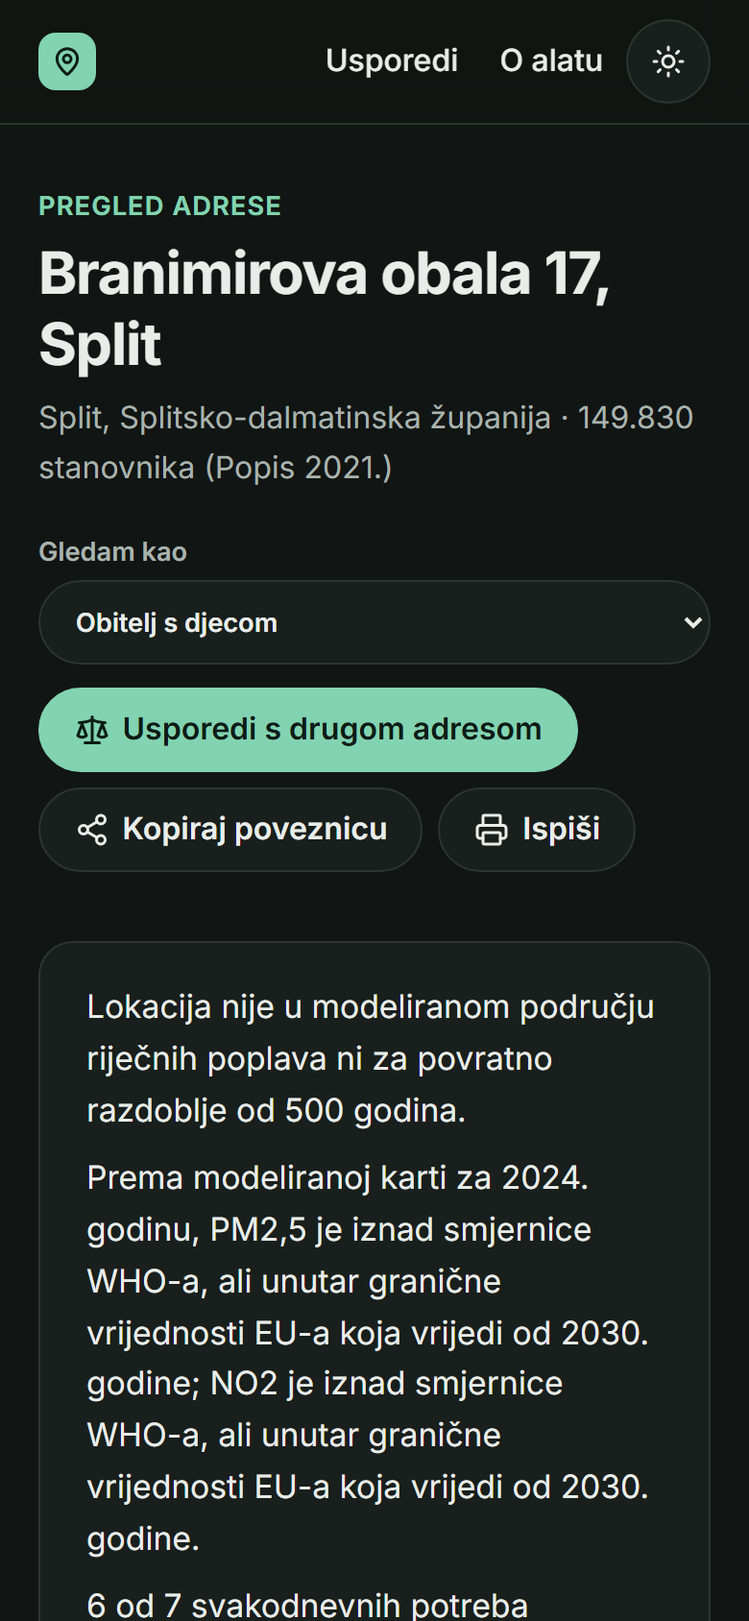
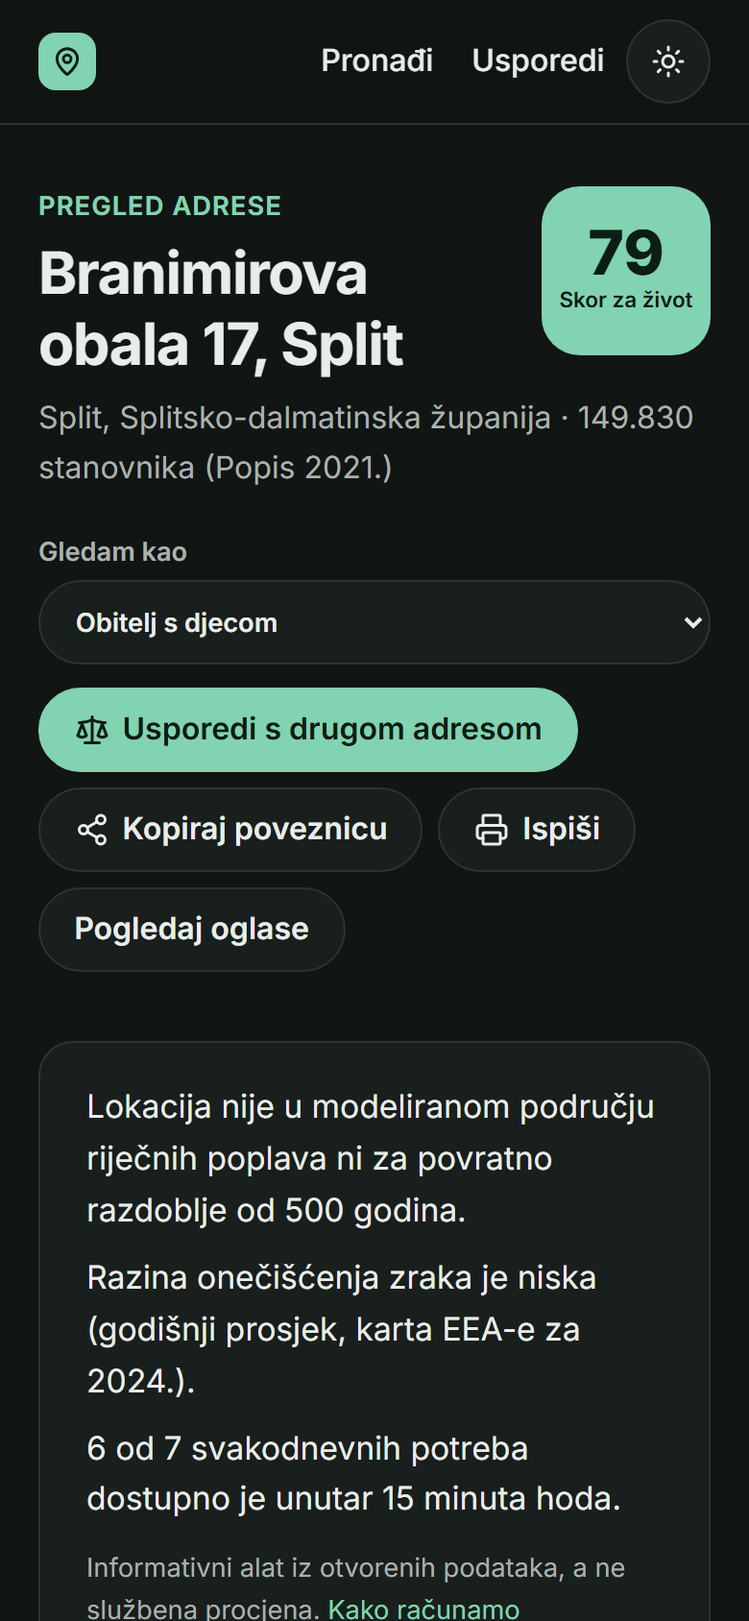
docs: align README, architecture, sources, video script with P3 features

diff --git a/backend/ingest/settlement_profiles.py b/backend/ingest/settlement_profiles.py
@@ -17,6 +17,7 @@ import time
 from concurrent.futures import ThreadPoolExecutor
 from typing import Any
 
+import httpx
 import pandas as pd
 import pyarrow as pa
 import pyarrow.parquet as pq
@@ -31,6 +32,7 @@ from analysis.environment import (
     noise_category,
 )
 from analysis.walking import compute_reach
+from app.config import get_settings
 from app.layers import get_layers
 from app.models import Category
 from ingest.common import processed_dir, record_source
@@ -86,6 +88,13 @@ def profile(row: dict[str, Any]) -> dict[str, Any]:
 
 
 def run(workers: int = 4) -> None:
+    try:
+        httpx.get(f"{get_settings().valhalla_url}/status", timeout=5).raise_for_status()
+    except httpx.HTTPError as exc:
+        raise RuntimeError(
+            "Valhalla ne radi: pokrenite je (docker compose -f deploy/docker-compose.dev.yml "
+            "up -d) pa ponovite `uv run python -m ingest.settlement_profiles`."
+        ) from exc
     d = processed_dir()
     settlements = pd.read_parquet(d / "settlements.parquet")
     population = pd.read_parquet(d / "settlement_population.parquet")

diff --git a/README.md b/README.md
@@ -1,6 +1,6 @@
 # Dobro mjesto
 
-**Okolišni pregled kuće ili stana prije kupnje: poplave, zrak, toplina i zelenilo, buka, sunce na krovu i život bez auta, za bilo koju adresu u Hrvatskoj, iz otvorenih podataka.**
+**Okoliš i svakodnevni život za svaku adresu u Hrvatskoj: poplave, zrak, zelenilo, promet, požari i sunce, sve što vam treba na dohvat ruke, i prijedlog mjesta za život, iz otvorenih podataka.**
 
 Datathon Portala otvorenih podataka 2026 · Izazov B: Okoliš i održivi prostor
 Tim: TODO(tim) · Mentor: TODO(tim) · Visoko učilište: TODO(tim)
@@ -13,34 +13,46 @@ Tim: TODO(tim) · Mentor: TODO(tim) · Visoko učilište: TODO(tim)
 
 ## Problem
 
-Kupnja kuće ili stana najveća je financijska odluka većine ljudi. Pri odabiru se gleda cijena, kvadratura i lokacija. Okolišne rizike i ovisnost o autu ljudi najčešće otkriju tek kad usele: da je kuća u poplavnom području, da je zrak lošiji nego što su mislili, da nema hlada ni zelenila, da se do vrtića i trgovine ne može bez auta.
+Gdje živjeti najveća je odluka većine ljudi, bilo da kupuju, unajmljuju ili tek razmišljaju o selidbi. Pri odabiru se gleda cijena, kvadratura i lokacija. Okolišne rizike i ovisnost o autu ljudi najčešće otkriju tek kad usele: da je kuća u poplavnom području, da je zrak lošiji nego što su mislili, da nema hlada ni zelenila, da se do vrtića i trgovine ne može bez auta.
 
-Ti podaci postoje, ali su rasuti po različitim institucijama i formatima: karte poplava, karte kvalitete zraka, satelitski pokrov tla, registri vrtića i ordinacija, vozni redovi. Prosječnom kupcu nisu ni razumljivi ni usporedivi.
+Ti podaci postoje, ali su rasuti po različitim institucijama i formatima: karte poplava, karte kvalitete zraka, satelitski pokrov tla, registri vrtića i ordinacija, vozni redovi. Prosječnom čovjeku nisu ni razumljivi ni usporedivi.
 
 ## Rješenje
 
-Korisnik upiše adresu i, po želji, odabere tko je: obitelj s djecom, umirovljenik, student, netko tko radi od kuće ili vlastiti izbor. Dobiva pregled u tri dijela:
+Naslovnica ima tri ulaza:
+
+1. **Provjeri adresu:** kako je živjeti na određenoj adresi.
+2. **Pronađi mjesto za život:** aplikacija predlaže naselja prema onome što vam treba.
+3. **Usporedi dvije lokacije:** dvije adrese jedna uz drugu.
+
+Izvještaj za adresu ima tri dijela:
 
 1. **Okolišni pregled** (prvi ekran):
-   - **poplave:** nalazi li se lokacija ili njezina okolica od 100 m u modeliranom poplavnom području za povratna razdoblja od 10, 100 i 500 godina, s poveznicom na službene karte Hrvatskih voda;
-   - **zrak:** godišnje koncentracije PM2,5 i NO2 za 2024. uspoređene sa smjernicama Svjetske zdravstvene organizacije i graničnim vrijednostima EU-a za 2030.;
-   - **toplina i zelenilo:** udio drveća, zelenih i izgrađenih površina u krugu od 300 m te najbliži park u minutama hoda, prema pravilu 3-30-300;
-   - **buka:** procjena prema udaljenosti od autocesta, glavnih i važnijih cesta te pruga, jasno označena kao procjena, uz poveznicu na strateške karte buke EEA-e;
+   - **poplave:** je li lokacija ili njezina okolica od 100 m u modeliranom poplavnom području za povratna razdoblja od 10, 100 i 500 godina, razumljivo izraženo kao vjerojatnost barem jedne poplave u 30 godina (trajanje stambenog kredita), s poveznicom na službene karte Hrvatskih voda;
+   - **zrak:** godišnji PM2,5 i NO2 na mirnoj, stupnjevanoj ljestvici (vrlo niska, niska, umjerena, visoka) s granicama Svjetske zdravstvene organizacije i EU-a;
+   - **toplina i zelenilo:** udio drveća, zelenih i izgrađenih površina u krugu od 300 m i najbliži park, prema pravilu 3-30-300;
+   - **promet u blizini:** udaljenost od autocesta, glavnih i važnijih cesta i pruga s opisnim rečenicama i pojasevima 300/500 m (procjena, ne mjerenje buke);
    - **požari raslinja:** opožarene površine u krugu od 2 km od 2016. (Copernicus EFFIS);
-   - **sunce na krovu:** procijenjena godišnja proizvodnja solarne elektrane po kilovatu snage (JRC PVGIS).
+   - **sunce na krovu:** procijenjena godišnja proizvodnja solarne elektrane po kilovatu (JRC PVGIS).
 2. **Život bez auta:**
-   - što je na 5, 10 i 15 minuta hoda po stvarnoj mreži ulica (karta s izokronama i isti popis u tekstu);
-   - stajališta javnog prijevoza s brojem polazaka na sat iz voznih redova ZET-a, HŽPP-a i Autotroleja;
+   - što je na 5, 10 i 15 minuta hoda po stvarnoj mreži ulica;
+   - stajališta s brojem polazaka na sat iz voznih redova ZET-a, HŽPP-a i Autotroleja;
    - koliko od sedam svakodnevnih potreba lokacija pokriva bez auta.
-3. **Svakodnevni život:** najbliži vrtić, osnovna škola, obiteljski liječnik, pedijatar, ljekarna, trgovina namirnicama, igralište i mjesto za reciklažu, s minutama hoda i brojem unutar 15 minuta.
+3. **Svakodnevni život:** najbliži vrtić, škola, liječnik, pedijatar, ljekarna, trgovina, igralište i mjesto za reciklažu, s minutama hoda.
 
-Dvije adrese mogu se usporediti jedna uz drugu. Pregled se može ispisati, podijeliti poveznicom ili preuzeti kao GeoJSON. Asistent odgovara na pitanja poput „Je li ova kuća u poplavnom području?” ili „Mogu li ovdje živjeti bez auta?”.
+**Skor za život** (0–100) sažima sve kategorije s težinama odabranog profila (obitelj s djecom, umirovljenik, student, rad od kuće ili vlastiti). Težine su vidljive i podesive, a uz skor piše što ga najviše podiže i spušta.
 
-Svaka brojka ima izvor, datum preuzimanja i vrstu (izmjereno, modelirano ili procjena). Brojke računa backend iz podataka, a ne jezični model. Rješenje ne daje jednu skupnu ocjenu sa skrivenim težinama: svaka kategorija ima vlastito, razumljivo značenje. Odabrani profil mijenja samo redoslijed i naglasak, nikad činjenice.
+**Ostalo:**
+- Točka se može odabrati i klikom na kartu ili povlačenjem oznake.
+- Za upisano naselje prikazuje se njegovo stvarno središte, uz napomenu da za točan izvještaj treba upisati adresu.
+- Gumb „Pogledaj oglase” otvara pretragu oglasa za to mjesto. Aplikacija samo slaže poveznicu i ne prikazuje oglase.
+- Asistent odgovara na pitanja poput „Je li ova kuća u poplavnom području?”.
+
+Svaka brojka ima izvor, datum i vrstu (izmjereno, modelirano ili procjena). Brojke računa backend iz podataka, a ne jezični model.
 
 ## Primjer
 
-Usporedba dviju adresa javnih ustanova u Vukovarsko-srijemskoj županiji. Izračunato 3. 11. 2026. iz podataka preuzetih 1.–2. 11. 2026.:
+Usporedba dviju adresa javnih ustanova u Vukovarsko-srijemskoj županiji. Izračunato 4. 11. 2026. iz podataka preuzetih 1.–4. 11. 2026.:
 - kvaliteta zraka: EEA karta za 2024.;
 - pokrov tla: ESA WorldCover 2021.;
 - poplave: JRC v3.1.1;
@@ -50,32 +62,36 @@ Usporedba dviju adresa javnih ustanova u Vukovarsko-srijemskoj županiji. Izrač
 |---|---|---|
 | Naselje | Vinkovci, 28.111 stanovnika (Popis 2021.) | Nijemci, 1.330 stanovnika (Popis 2021.) |
 | Poplave | **Dobro:** izvan modeliranih područja za 10, 100 i 500 godina, i u krugu od 100 m | **Dobro:** isto |
-| Zrak (godišnji prosjek 2024.) | **Loše:** PM2,5 18,2 µg/m³ (WHO 5, EU 2030. 10), NO2 17,5 µg/m³ | **Loše:** PM2,5 18,6 µg/m³, NO2 16,5 µg/m³ |
+| Zrak (godišnji prosjek 2024.) | **Umjerena** razina: PM2,5 18,2 µg/m³ (unutar današnje granice EU-a od 25, iznad granice za 2030. od 10), NO2 17,5 µg/m³ (niska) | **Umjerena**: PM2,5 18,6 µg/m³, NO2 16,5 µg/m³ |
 | Toplina i zelenilo (300 m) | **Upozorenje:** drveće 7 %, izgrađeno 90 %; park 2 min hoda | **Loše:** drveće 20 %; najbliži park udaljen 6,1 km |
-| Buka (procjena) | važnija cesta 10 m, pruga 1,4 km | važnija cesta 20 m |
+| Promet u blizini | **Blizu prometnice:** važnija cesta 10 m; pruga 1,4 km | **Blizu prometnice:** važnija cesta 20 m |
 | Sunce na krovu | oko 1.251 kWh po kWp godišnje, nagib 37° | oko 1.245 kWh po kWp godišnje, nagib 36° |
 | Život bez auta | 6 od 7 potreba unutar 15 min; stajalište s polascima nije provjereno (nema otvorenog voznog reda) | 5 od 7; nedostaje park; stajalište nije provjereno |
 | Najbliži vrtić / škola / liječnik | 3 / 4 / 5 min hoda | 12 / 3 / 4 min hoda |
-| Pedijatar | 19 min hoda | nije pronađen u krugu od 15 km |
+| Skor za život (profil „Općenito”) | 67 | 60 |
 
-Isti izračun dobiva se pozivom `GET /api/report?lat=45.288186&lon=18.805681` (Vinkovci) i `GET /api/report?lat=45.140273&lon=19.034942` (Nijemci). Svih šest demo adresa (Vinkovci, Osijek, Zagreb, Split, Nijemci) nalazi se u [scripts/demo_addresses.json](scripts/demo_addresses.json), a njihovi rezultati provjeravaju se zlatnim testovima.
+Isti izračun dobiva se pozivom `GET /api/report?lat=45.288186&lon=18.805681` (Vinkovci) i `GET /api/report?lat=45.140273&lon=19.034942` (Nijemci). Svih šest demo adresa nalazi se u [scripts/demo_addresses.json](scripts/demo_addresses.json), a njihovi rezultati provjeravaju se zlatnim testovima.
 
 ![Usporedba dviju adresa](docs/images/usporedba.png)
 
 ## Za koga
 
-- **Kupci i najmoprimci** koji biraju između više lokacija.
-- **Obitelji s djecom i starije osobe**, kojima su blizina vrtića, škole, liječnika i ljekarne te javni prijevoz važni koliko i sama kuća.
-- **Oglasnici nekretnina, agencije i banke**, koji pregled mogu ugraditi preko otvorenog API-ja.
+- **Svi koji biraju gdje živjeti:** kupci, najmoprimci i oni koji razmišljaju o selidbi.
+- **Obitelji s djecom i starije osobe**, kojima su vrtić, škola, liječnik, ljekarna i javni prijevoz važni koliko i sama kuća.
+- **Gradovi, agencije, banke i oglasnici**, koji pregled mogu ugraditi preko otvorenog API-ja.
 
 ## Funkcionalnosti
 
-- pretraga adrese s prijedlozima nad 1,7 milijuna adresa Državne geodetske uprave (bez vanjskog geokodera)
-- okolišni pregled: poplave, zrak, toplina i zelenilo, buka, požari raslinja, sunčev potencijal
+- pretraga adrese s prijedlozima nad 1,7 milijuna adresa Državne geodetske uprave (bez vanjskog geokodera); naselje se prikazuje u svojem stvarnom središtu
+- odabir točke klikom na kartu ili povlačenjem oznake
+- **Pronađi mjesto za život:** 2.347 naselja s najmanje 200 stanovnika rangirano prema filtrima i Skoru za život, s razlozima
+- **Skor za život** s vidljivim i podesivim težinama po profilu
+- poveznice na pretrage oglasa (Njuškalo, Index Oglasi, Nekretnine.hr); aplikacija ne dohvaća ni ne prikazuje oglase
+- okolišni pregled: poplave (i vjerojatnost u 30 godina), zrak na stupnjevanoj ljestvici, toplina i zelenilo, promet u blizini, požari raslinja, sunčev potencijal
 - izokrone hoda od 5, 10 i 15 minuta po mreži ulica i pješačkih staza
 - svakodnevne potrebe i javni prijevoz s minutama hoda
 - profili korisnika koji mijenjaju redoslijed i naglasak
-- usporedba dviju adresa
+- usporedba dviju lokacija
 - asistent na hrvatskom koji odgovara samo iz rezultata izračuna (s jezičnim modelom ili bez njega)
 - ispis, dijeljenje poveznicom (stanje izvještaja je u URL-u) i preuzimanje GeoJSON-a
 - stranica „Izvori”: datumi osvježavanja uživo preko CKAN API-ja Portala otvorenih podataka i nalazi o kvaliteti podataka
@@ -87,7 +103,7 @@ Isti izračun dobiva se pozivom `GET /api/report?lat=45.288186&lon=18.805681` (V
 
 ## Izvori otvorenih podataka
 
-Potpun popis s poveznicama, licencama, datumima i statusom svakog izvora nalazi se u [docs/IZVORI_PODATAKA.md](docs/IZVORI_PODATAKA.md). Ukupno se koristi 30 skupova podataka i PVGIS API.
+Potpun popis s poveznicama, licencama, datumima i statusom svakog izvora nalazi se u [docs/IZVORI_PODATAKA.md](docs/IZVORI_PODATAKA.md). Ukupno se koristi 31 skup podataka (uz službene mjerne postaje zraka za provjeru) i PVGIS API. Oglasnici nisu izvori podataka, nego samo vanjske poveznice.
 
 | Izvor | Podaci | Primjena |
 |---|---|---|
@@ -99,12 +115,13 @@ Potpun popis s poveznicama, licencama, datumima i statusom svakog izvora nalazi 
 | JRC | karte opasnosti od riječnih poplava za Europu | poplave |
 | Hrvatske vode | karte opasnosti od poplava | poveznica na službeni preglednik |
 | EEA | interpolirane karte kvalitete zraka 2024. | PM2,5 i NO2 |
+| EEA Air Quality Download Service | mjerenja službenih postaja RH 2024. | provjera karte zraka i ML evaluacija |
 | ESA WorldCover | pokrov tla, 10 m | zelenilo, drveće, izgrađenost |
 | EEA (direktiva o buci okoliša) | strateške karte buke | samo poveznica (licenca nije otvorena) |
 | JRC PVGIS | sunčev potencijal (API) | sunce na krovu |
 | Copernicus EFFIS | opožarene površine (WFS) | požari raslinja |
 | ZET, HŽPP (GTFS), Autotrolej (JSON, data.gov.hr) | vozni redovi | polasci na sat |
-| OpenStreetMap | mreža ulica, trgovine, igrališta, parkovi, stajališta, prometnice, reciklaža | mreža hoda, svakodnevne potrebe, procjena buke |
+| OpenStreetMap | mreža ulica, trgovine, igrališta, parkovi, stajališta, prometnice, reciklaža, središta naselja | mreža hoda, svakodnevne potrebe, promet u blizini, središte naselja |
 | Općine i gradovi (data.gov.hr) | reciklažna dvorišta i zeleni otoci (11 skupova s koordinatama) | reciklaža |
 | Portal otvorenih podataka | CKAN API | pretraga skupova i datumi osvježavanja uživo |
 
@@ -216,12 +233,12 @@ Cijeli popis vodi se u [docs/KVALITETA_PODATAKA.md](docs/KVALITETA_PODATAKA.md).
 |---|---|
 | Upotreba otvorenih podataka | 30 skupova podataka i PVGIS API; izvori se preuzimaju automatski (CKAN Portala, ATOM DGU-a, PVGIS, GTFS) i pripremaju jednom naredbom, uz zapis licence i datuma; prednost imaju skupovi s data.gov.hr |
 | Povezivanje javno dostupnih podataka | adresa se povezuje s upravnim jedinicama, popisom stanovništva, rasterskim okolišnim slojevima, mrežom ulica, registrima ustanova (geokodiranim nad adresama DGU-a) i voznim redovima |
-| Relevantnost rješenja | poplave, kvaliteta zraka, buka, zelenilo i toplina, požari raslinja, okolišno prihvatljiv prijevoz, reciklaža i sunčeva energija, sve teme izazova B |
+| Relevantnost rješenja | poplave, kvaliteta zraka, promet, zelenilo i toplina, požari raslinja, okolišno prihvatljiv prijevoz, reciklaža i sunčeva energija, sve teme izazova B |
 | Utjecaj i korist za zajednicu | okolišni rizici i ovisnost o autu vidljivi su prije najveće financijske odluke, a ne nakon useljenja; nalazi o kvaliteti podataka vraćaju se izdavačima |
-| Inovativnost i primjena tehnologija | izokrone hoda po stvarnoj mreži, spajanje satelitskih i registarskih podataka za jednu adresu, vlastito geokodiranje registara, asistent čije brojke dolaze iz predložaka |
+| Inovativnost i primjena tehnologija | izokrone hoda po stvarnoj mreži, spajanje satelitskih i registarskih podataka za jednu adresu, vlastito geokodiranje registara, rangiranje 2.347 naselja (Pronađi mjesto za život), provjera karte zraka uz službene postaje i ML evaluacija (Random Forest, leave-one-station-out, [docs/ML.md](docs/ML.md)), asistent čije brojke dolaze iz predložaka |
 | Izvedivost rješenja | radni prototip, cijela obrada pokreće se jednom naredbom, produkcija jednom Docker Compose naredbom; javni demo: TODO(ljudi) |
 | Tehnička arhitektura i integracijski potencijal | REST i OpenAPI, GeoJSON, INSPIRE i GTFS na ulazu, opisani tehnički, organizacijski i pravni preduvjeti za uvođenje, Docker Compose |
-| Dojam rješenja | jedna adresa, jedan pregled; okolišni pregled na prvom ekranu; usporedba dviju adresa; WCAG 2.2 AA provjeren axe-om u svijetloj i tamnoj temi |
+| Dojam rješenja | tri jasna ulaza (adresa, pronađi mjesto, usporedba); okolišni pregled na prvom ekranu; Skor za život s podesivim težinama; WCAG 2.2 AA provjeren axe-om u svijetloj i tamnoj temi |
 | Prezentacija rješenja | video u trajanju do 3 minute: TODO(ljudi) (scenarij: [docs/VIDEO_SCENARIJ.md](docs/VIDEO_SCENARIJ.md)) |
 
 ## Privatnost i sigurnost
@@ -236,7 +253,11 @@ Cijeli popis vodi se u [docs/KVALITETA_PODATAKA.md](docs/KVALITETA_PODATAKA.md).
 - Ovo je informativni alat, a ne službena procjena rizika, geodetski ni građevinski pregled. Ne zamjenjuje karte i upozorenja Hrvatskih voda, DHMZ-a i civilne zaštite.
 - Karte poplava su modelirane i obuhvaćaju samo riječne poplave većih vodotoka (bez bujica i poplava mora). Lokacija izvan modeliranog područja ne znači da rizika nema.
 - Kvaliteta zraka prikazuje se kao godišnji prosjek modelirane karte na mreži od 1 km, a ne kao mjerenje na samoj adresi.
-- Buka je samo procjena prema udaljenosti od prometnica: strateške karte buke EEA-e nemaju otvorenu licencu, pa ih samo povezujemo.
+- „Promet u blizini” je procjena prema udaljenosti od prometnica, a ne mjerenje buke: strateške karte buke EEA-e nemaju otvorenu licencu, pa ih samo povezujemo.
+- Karta zraka prikazuje pozadinsku razinu; uz prometne ulice NO2 može biti znatno viši (provjera uz službene postaje u [docs/METODOLOGIJA.md](docs/METODOLOGIJA.md)). ML model nije ušao u aplikaciju jer nije bio bolji za obje tvari ([docs/ML.md](docs/ML.md)).
+- „Pronađi mjesto za život” računa za središte naselja s najmanje 200 stanovnika, bez sunca na krovu; za konkretnu adresu treba otvoriti izvještaj.
+- Skor za život koristi i naše normalizacije (sunce, prijevoz, požari) koje nisu službeni pragovi; opisane su u metodologiji.
+- Njuškalo blokira automatsku provjeru poveznica, pa su kategorije i slugovi mjesta osim provjerenog primjera označeni TODO(verify) u `config/listings.json`; za neprovjerena mjesta poveznica vodi na pretragu kategorije s filtrima.
 - Vozni redovi u otvorenom obliku postoje za ZET, HŽPP i Autotrolej. Drugdje, npr. u Splitu i Osijeku, prikazuju se samo stajališta, a potreba „stajalište s polascima” označava se kao „nije provjereno”. Vozni red HŽPP-a vrijedi do 13. 12. 2026.
 - Registri bez koordinata geokodirani su s 86–95 % uspjeha. Neuspjeli zapisi se ne prikazuju, a za vrtiće, škole i ljekarne dopunjuju se OpenStreetMapom.
 - HZZO-ovi popisi i vozni red HŽPP-a nemaju navedenu licencu; koriste se uz obrazloženje u [docs/ODLUKE.md](docs/ODLUKE.md).
@@ -246,13 +267,13 @@ Cijeli popis vodi se u [docs/KVALITETA_PODATAKA.md](docs/KVALITETA_PODATAKA.md).
 
 ## Daljnji razvoj
 
-- odabir točke klikom na kartu i lokacija iz preglednika
 - obavijest kad se za odabranu lokaciju promijeni službena karta opasnosti od poplava
+- model NO2 na razini ulice uz gradske mjerne mreže i podatke o prometnom opterećenju ([docs/ML.md](docs/ML.md))
 - strateške karte buke ako postanu dostupne pod otvorenom licencom
 - vozni redovi ostalih gradskih prijevoznika (GTFS)
-- ugradnja u oglasnike nekretnina preko API-ja
+- provjereno mapiranje mjesta za poveznice na oglasnike, u dogovoru s oglasnicima
+- ugradnja u oglasnike nekretnina i gradske portale preko API-ja
 - dodatni slojevi: toplinski stres, kvaliteta vode za piće
-- usporedba više od dviju adresa
 
 ## Licenca i atribucija
 

diff --git a/docs/VIDEO_SCENARIJ.md b/docs/VIDEO_SCENARIJ.md
@@ -1,33 +1,31 @@
 # Scenarij videa (do 3 minute)
 
-**Priča:** kupac bira između dviju lokacija u Vinkovcima. Kao primjer služe adrese javnih ustanova: gradska uprava (Bana Jelačića 1) i Općina Nijemci (Trg kralja Tomislava 6). Okolišni pregled je prvi, zatim usporedba, asistent i izvori.
+**Priča:** obitelj razmišlja gdje živjeti u Vukovarsko-srijemskoj županiji. Prvo provjerava jednu adresu, zatim traži mjesta koja im odgovaraju i uspoređuje dvije lokacije. Kao primjer služe adrese javnih ustanova: gradska uprava Vinkovci (Bana Jelačića 1) i Općina Nijemci (Trg kralja Tomislava 6). Okolišni pregled je uvijek prvi.
 
 **Priprema:**
-- Pokrenite aplikaciju (`make dev` ili javni demo) u pregledniku na 1280 × 800, u svijetloj temi, s uvećanjem od 110 %.
+- Pokrenite aplikaciju (lokalno ili javni demo) u pregledniku na 1280 × 800, u svijetloj temi, s uvećanjem od 110 %.
 - Pripremite kartice:
   1. naslovnica;
-  2. izvještaj za „Bana Jelačića 1, Vinkovci”;
-  3. usporedba s „Trg kralja Tomislava 6, Nijemci”;
-  4. stranica „Izvori”;
+  2. izvještaj za „Bana Jelačića 1, Vinkovci” s profilom „Obitelj s djecom”;
+  3. „Pronađi mjesto” s Vukovarsko-srijemskom županijom, vrtićem, školom i bez poplava;
+  4. usporedba Vinkovci i Nijemci;
   5. `/api/docs`.
-- Snimke zaslona za montažu nalaze se u `docs/images/`.
-- Ne prikazujte privatne adrese.
+- Snimke zaslona za montažu nalaze se u `docs/images/`. Ne prikazujte privatne adrese.
 
 | Vrijeme | Slika | Govor (prijedlog) |
 |---|---|---|
-| 0:00–0:15 | naslovnica | „Kupnja doma je najveća odluka u životu. Gledamo cijenu i kvadraturu, a poplave, zrak ili to možemo li bez auta otkrijemo tek kad uselimo. Ti podaci postoje, ali su rasuti po desetak institucija.” |
-| 0:15–0:25 | upis „Bana Jelačića 1, Vinkovci”, prijedlozi se pojavljuju | „Dobro mjesto daje okolišni pregled za bilo koju adresu u Hrvatskoj. Upišem adresu i odaberem tko sam, npr. obitelj s djecom.” |
-| 0:25–0:55 | izvještaj: sažetak i kartice Poplave, Kvaliteta zraka, Toplina i zelenilo | „Prvo okoliš. Lokacija nije u modeliranom poplavnom području; uz to je poveznica na službene karte Hrvatskih voda. Zrak uspoređujemo sa smjernicom WHO-a i graničnom vrijednošću EU-a za 2030. Zelenilo mjerimo satelitskom kartom ESA-e prema pravilu 3-30-300. Svaka brojka ima izvor, datum i oznaku je li izmjerena, modelirana ili procjena.” |
-| 0:55–1:05 | kartice Buka i Sunce na krovu | „Buka je jasno označena kao procjena, a sunčana elektrana od jednog kilovata ovdje bi dala oko 1.250 kWh godišnje, prema JRC-ovu PVGIS-u.” |
-| 1:05–1:25 | „Život bez auta”: karta s izokronama, „X od 7” | „Mreža hoda računa se po stvarnim ulicama. Na karti je dokle stignete za 5, 10 i 15 minuta, a ispod koliko od sedam svakodnevnih potreba imate bez auta: trgovinu, ljekarnu, liječnika, vrtić, školu, park i stajalište s polascima iz voznih redova.” |
-| 1:25–1:35 | tablica „Svakodnevni život” | „Vrtići i škole dolaze iz registra Ministarstva, liječnici i ljekarne iz HZZO-a. Te registre bez koordinata sami smo geokodirali nad 1,7 milijuna adresa DGU-a.” |
-| 1:35–1:55 | „Usporedi s drugom adresom” → usporedba s Nijemcima | „Dvije adrese jedna uz drugu. Nema skupne ocjene sa skrivenim težinama: vidite razlike i sami odlučujete. Profil mijenja samo redoslijed, nikad vrijednosti.” |
-| 1:55–2:15 | asistent: „Gdje je bliže do vrtića?” | „Asistent odgovara samo iz izračuna. Brojke dolaze iz predložaka, pa ih jezični model ne može izmisliti. Na pitanje treba li kupiti kuću ne odgovara.” |
-| 2:15–2:35 | stranica „Izvori”, zatim `/api/docs` | „Koristimo 30 otvorenih skupova podataka i PVGIS API: Portal otvorenih podataka, DGU, DZS, Ministarstvo, HZZO, Grad Zagreb, ZET, HŽPP, Autotrolej, općine, JRC, EEA, ESA, Copernicus EFFIS i OpenStreetMap. Datume osvježavanja provjeravamo uživo preko CKAN API-ja Portala, a nalaze o kvaliteti podataka vraćamo izdavačima. Sve je dostupno i kao REST API s OpenAPI opisom i GeoJSON-om.” |
-| 2:35–2:50 | dijagram arhitekture iz README-a | „Arhitektura: FastAPI, Valhalla za mrežu hoda, React i MapLibre, a sve se diže jednom Docker Compose naredbom. Kod je otvoren pod licencom EUPL.” |
-| 2:50–3:00 | naslovnica, logo | „Sljedeći koraci: obavijest kad se promijeni službena karta poplava i ugradnja u oglasnike nekretnina. Dobro mjesto: provjerite okoliš prije nego potpišete.” |
+| 0:00–0:15 | naslovnica s tri ulaza | „Gdje živjeti najveća je odluka u životu. Gledamo cijenu i kvadraturu, a poplave, zrak ili to možemo li bez auta otkrijemo tek kad uselimo. Ti podaci postoje, ali su rasuti po desetak institucija.” |
+| 0:15–0:25 | upis „Bana Jelačića 1, Vinkovci”, odabir „Obitelj s djecom” | „Dobro mjesto daje okoliš i svakodnevni život za svaku adresu u Hrvatskoj. Upišem adresu i odaberem tko sam.” |
+| 0:25–0:55 | izvještaj: Poplave, Kvaliteta zraka (ljestvica), Toplina i zelenilo, Promet u blizini | „Prvo okoliš. Poplave iz karata JRC-a, uz poveznicu na Hrvatske vode; kad je adresa u poplavnom području, rizik vidim kao vjerojatnost u 30 godina kredita. Zrak je na mirnoj ljestvici s granicama WHO-a i EU-a, zelenilo prema pravilu 3-30-300, a promet prema udaljenosti od ceste. Uz svaku brojku su izvor i datum.” |
+| 0:55–1:10 | Skor za život u zaglavlju, zatim ploča s klizačima | „Skor za život sažima sve kategorije prema mom profilu. Težine su vidljive i mogu ih mijenjati, a piše i što skor najviše podiže i spušta.” |
+| 1:10–1:25 | Život bez auta: karta s izokronama, kvačice | „Hod se računa po stvarnim ulicama: što je na 5, 10 i 15 minuta i koliko od sedam svakodnevnih potreba imam bez auta.” |
+| 1:25–1:50 | Pronađi mjesto: filtri, rezultati s razlozima, „Otvori izvještaj” | „A ako još ne znam gdje? Zadam županiju, vrtić, školu i bez poplava, a aplikacija rangira 2.347 naselja i objasni zašto. Izračun je deterministički; jezični model smije samo pretvoriti moje pitanje u filtre.” |
+| 1:50–2:05 | „Pogledaj oglase”, zatim usporedba Vinkovci i Nijemci | „Za odabrano mjesto otvaram pretragu oglasa; mi samo slažemo poveznicu. Dvije lokacije usporedim jednu uz drugu.” |
+| 2:05–2:25 | asistent: „Gdje je bliže do vrtića?” | „Asistent odgovara samo iz izračuna i ne daje savjete o kupnji.” |
+| 2:25–2:45 | stranica „Izvori”, metodologija (provjera zraka), `/api/docs` | „Koristimo 31 otvoreni skup podataka: Portal otvorenih podataka, DGU, DZS, Ministarstvo, HZZO, gradove, ZET, HŽPP, JRC, EEA, ESA, Copernicus i OpenStreetMap. Kartu zraka provjerili smo uz službene postaje, a Random Forest model pošteno usporedili s njom. Sve je dostupno kao REST API s OpenAPI opisom.” |
+| 2:45–3:00 | naslovnica | „Kod je otvoren pod licencom EUPL. Dobro mjesto: okoliš i svakodnevni život za svaku adresu u Hrvatskoj.” |
 
 **Napomene za snimanje:**
 - Ukupno oko 400 riječi; govorite mirno, bez zastrašivanja.
-- Na kraju, ili kao natpis tijekom cijelog videa: „Informativni alat, nije službena procjena.”
-- Ako demo URL još nije javan, snimite lokalno (`make dev`).
+- Tijekom videa natpis: „Informativni alat, nije službena procjena.”
+- Ako demo URL još nije javan, snimite lokalno (upute u `docs/RAZVOJ.md`).

diff --git a/docs/IZVORI_PODATAKA.md b/docs/IZVORI_PODATAKA.md
@@ -14,6 +14,7 @@ Sva preuzimanja šalju User-Agent `PrijePotpisa/0.1 (+CONTACT_EMAIL)`, ponovno k
 | Poplave | JRC, karte opasnosti od riječnih poplava (CEMS-EFAS) v3.1.1 | radi | ODbL 1.0 / CC BY 4.0 (vidi napomenu) | dubina vode za povratna razdoblja 10, 100 i 500 godina |
 | Poplave (službeno) | Hrvatske vode, karte opasnosti od poplava 2019. | samo poveznica | nije navedena | poveznica na preglednik |
 | Zrak | EEA, interpolirane karte kvalitete zraka 2024., 1 km | radi | CC BY 4.0 | PM2,5 i NO2 |
+| Zrak (provjera) | EEA Air Quality Download Service, službene postaje RH 2024. (E1a) | radi | uvjeti EEA-e, TODO(verify) | provjera karte i ML evaluacija |
 | Zelenilo | ESA WorldCover 10 m 2021 v200 | radi | CC BY 4.0 | drveće, zelene i izgrađene površine |
 | Buka | EEA, strateške karte buke (END 2022) | ne koristi se | ograničena (istraživanje i neprofitna upotreba) | rezervni plan: udaljenost od prometnica (OSM) |
 | Sunce | JRC PVGIS 5.3 API | radi | slobodna upotreba uz navođenje izvora | kWh po kWp godišnje |
@@ -150,3 +151,15 @@ Sva preuzimanja šalju User-Agent `PrijePotpisa/0.1 (+CONTACT_EMAIL)`, ponovno k
 - Direktiva (EU) 2024/2881 (CELEX 32024L2881), Prilog I., tablica 1: granične vrijednosti od 1. 1. 2030. — godišnje PM2,5 10 µg/m³, NO2 20 µg/m³.
 - WHO Environmental Noise Guidelines for the European Region (2018): https://iris.who.int/handle/10665/279952 — cestovni promet 53 dB Lden, 45 dB Lnight.
 - Pravilo 3-30-300: Konijnendijk, C. C. (2023). Evidence-based guidelines for greener, healthier, more resilient neighbourhoods: Introducing the 3–30–300 rule. Journal of Forestry Research 34, 821–830. https://doi.org/10.1007/s11676-022-01523-z
+
+### EEA Air Quality Download Service: službene mjerne postaje
+- API: `POST https://eeadmz1-downloads-api-appservice.azurewebsites.net/ParquetFile/urls` sa `countries: ["HR"]`, `pollutants: ["PM2.5", "NO2"]`, `dataset: 2` (verificirani podaci E1a), 2024. godina; jedna parquet datoteka po mjernom mjestu.
+- Metapodaci mjernih mjesta (koordinate, vrsta i područje postaje): `https://discomap.eea.europa.eu/App/AQViewer/download?fqn=Airquality_Dissem.b2g.measurements&f=csv`.
+- Podatke prijavljuje ministarstvo nadležno za zaštitu okoliša (namespace `aqd.azo.hr`). Licenca: uvjeti ponovne upotrebe EEA-e, TODO(verify) točan naziv licence.
+- Upotreba: samo provjera karte zraka i ML evaluacija (`docs/METODOLOGIJA.md`, `docs/ML.md`); vrijednosti postaja ne prikazuju se u izvještaju.
+
+### Središta naselja (OpenStreetMap)
+- OSM čvorovi `place=city|town|village|hamlet|suburb|isolated_dwelling|locality` iz istog izvatka; čvor se koristi kad mu je ime jednako imenu DGU naselja i nalazi se unutar njegova poligona (6.536 od 6.759 naselja).
+
+### Oglasnici (vanjske poveznice, ne izvori podataka)
+- Njuškalo, Index Oglasi i Nekretnine.hr. Aplikacija samo slaže poveznicu na pretragu (`config/listings.json`); ne dohvaća, ne parsira i ne prikazuje oglase. Njuškalo i Nekretnine.hr odbijaju automatske zahtjeve, pa poveznice nisu automatski provjerene.

diff --git a/docs/ARHITEKTURA.md b/docs/ARHITEKTURA.md
@@ -51,6 +51,9 @@ Rješenje ima dva dijela:
 | `transit.py` | ZET i HŽPP GTFS, Autotrolej JSON | `transit_stops.parquet` s polascima na sat |
 | `registries.py` | MZOM, HZZO, Grad Zagreb | `registry_pois.parquet` (geokodirano nad DGU adresama), `geocoding_report.json` |
 | `recycling.py` | CKAN pretraga općinskih skupova + OSM | `recycling.parquet`, `recycling_ckan.json` |
+| `centers.py` | OSM čvorovi `place` | stvarna središta naselja u `settlements.parquet` |
+| `stations.py` | EEA Air Quality Download Service | `stations_2024.parquet`: godišnji prosjeci službenih postaja |
+| `settlement_profiles.py` | sve gore (treba Valhallu) | `settlement_profiles.parquet`: profil središta 2.347 naselja za tražilicu |
 | `pois.py` | sve gore | `pois.parquet`: jedan sloj točaka s prednošću službenih izvora |
 | `common.py` | — | pristojno preuzimanje (User-Agent, razmak između zahtjeva, ponavljanje, nastavak prekinutog preuzimanja) i `manifest.json` s izvorom, licencom i datumom preuzimanja |
 
@@ -74,8 +77,17 @@ Rješenje ima dva dijela:
 | `GET /api/reverse?lat=&lon=` | naselje, grad ili općina, županija |
 | `GET /api/report?lat=&lon=[&format=geojson]` | cijeli izvještaj; svaka vrijednost ima `source`, `retrieved_at` i `kind` |
 | `POST /api/assistant` | asistent nad izvještajem (vidi [ASISTENT.md](ASISTENT.md)) |
+| `GET /api/find/options`, `POST /api/find` | Pronađi mjesto za život: filtri i deterministički rang naselja |
+| `POST /api/find/parse` | slobodno pitanje u filtre (samo uz jezični model) |
 | `GET /api/sources` | svi izvori s licencom i datumom |
 | `GET /api/sources/live` | datumi zadnje izmjene skupova uživo s Portala (CKAN) |
+
+### Zajednička konfiguracija (`config/`)
+
+- `profiles.json`: profili i težine za Skor za život; čitaju ga i backend (`app/profiles.py`) i frontend.
+- `listings.json`: slaganje poveznica na oglasnike (samo URL, bez dohvaćanja).
+
+Podskorovi kategorija računaju se u backendu (`analysis/score.py`), pa isti skor koriste izvještaj i tražilica mjesta.
 
 ### Frontend (`frontend/`)
 

diff --git a/docs/ASISTENT.md b/docs/ASISTENT.md
@@ -36,7 +36,7 @@ Pitanja su automatski provjerena u `backend/tests/test_assistant.py` (pravila, b
 | 4 | Ima li puno prašine i smoga? | report | zrak | isto kao 3 |
 | 5 | Ima li dovoljno drveća i hlada ljeti? | report | toplina i zelenilo | udio drveća, zelenih i izgrađenih površina u krugu od 300 m; najbliži park |
 | 6 | Koliko je daleko najbliži park? | report | toplina i zelenilo | najbliži park u minutama hoda i zračna udaljenost |
-| 7 | Je li bučno zbog prometa? | report | buka | udaljenost od najbliže važnije ceste i pruge, označena kao procjena |
+| 7 | Je li bučno zbog prometa? | report | promet u blizini | udaljenost od najbliže važnije ceste i pruge, označena kao procjena |
 | 8 | Isplate li se solarni paneli na krovu? | report | sunce | kWh po kWp godišnje i optimalni nagib iz PVGIS-a (bez savjeta o isplativosti) |
 | 9 | Mogu li ovdje živjeti bez auta? | report | život bez auta | „X od 7” potreba unutar 15 minuta hoda i popis onoga što nedostaje ili nije provjereno |
 | 10 | Ima li autobus ili tramvaj u blizini? | report | javni prijevoz | broj stajališta unutar 10 minuta hoda; najviše polazaka na sat gdje postoji vozni red |

diff --git a/docs/PRISTUPACNOST.md b/docs/PRISTUPACNOST.md
@@ -1,16 +1,16 @@
 # Pristupačnost
 
-Cilj je WCAG 2.2 razine AA. Provjera je automatska (axe-core u Playwrightu) i ručna, prema popisu u nastavku.
+Cilj je WCAG 2.2 razine AA. Provjera je automatska (axe-core u Playwrightu); ono što još nije provjereno navedeno je na kraju.
 
 ## Automatske provjere
 
 `make e2e` (dio `make verify`) pokreće `frontend/tests/e2e/smoke.spec.ts`:
 
 - **axe-core** s oznakama `wcag2a`, `wcag2aa`, `wcag21a`, `wcag21aa` i `wcag22aa`:
-  - na svim stranicama: naslovnica, izvještaj, usporedba, izvori i „O alatu”;
+  - na svim stranicama: naslovnica, izvještaj, usporedba, „Pronađi mjesto”, izvori i „O alatu”;
   - u svijetloj i tamnoj temi;
   - na desktopu (Desktop Chrome) i mobitelu (Pixel 7);
-  - ukupno 20 provjera, a sve moraju biti bez nalaza.
+  - ukupno 24 provjere, a sve moraju biti bez nalaza.
 - **Bez vodoravnog pomicanja** na širini od 320 px (naslovnica, izvještaj, usporedba).
 - **Glavni tok tipkovnicom:** pretraga, strelica dolje i Enter do izvještaja.
 

diff --git a/docs/RAZVOJ.md b/docs/RAZVOJ.md
@@ -166,6 +166,19 @@ npm run dev
 
 Zaustavljanje: u terminalima 2 i 3 pritisnite **Ctrl+C**, a Valhallu zaustavite naredbom `docker compose -f deploy/docker-compose.dev.yml down`. Pločice ostaju spremljene, pa sljedeće pokretanje traje nekoliko sekundi.
 
+### Profili naselja (jednom, nakon što Valhalla radi)
+
+Korak „Profili naselja” iz koraka 5 treba Valhallu, a ona treba OSM izvadak iz istog koraka. Zato ga pri prvom pokretanju preskočite i pokrenite tek kad Valhalla radi (oko 5 minuta):
+
+```powershell
+cd backend
+$env:PYTHONUTF8 = "1"
+uv run python -m ingest.settlement_profiles
+cd ..
+```
+
+Bez tog koraka sve radi osim stranice „Pronađi mjesto”.
+
 ### Ako imate `make`
 
 Na Linuxu, Macu ili Windowsima s MSYS2 sve gore radi i preko Makefilea: `make setup`, `make data`, `make dev`, `make verify`. Na običnim Windowsima `make` ne postoji, pa koristite naredbe iz ove upute. Rezultat je isti.

diff --git a/PROGRESS.md b/PROGRESS.md
@@ -65,7 +65,7 @@ Redoslijed (procjena):
 8. [x] Poveznice na oglase: Njuškalo s filtrima i rezervnim poveznicama; Index Oglasi i Nekretnine.hr samo rezervno ako se struktura ne potvrdi (1 h)
 9. [x] Validacija zraka uz službene postaje (Zagreb, Osijek, Požega, po 4 lokacije) (1,5 h)
 10. [x] ML: model za godišnji NO2/PM2,5 na postajama, leave-one-station-out, usporedba s EEA; u aplikaciju samo ako je bolji (2 h)
-11. [ ] Dokumentacija, scenarij videa, snimke zaslona (1 h)
+11. [x] Dokumentacija, scenarij videa, snimke zaslona (1 h)
 
 Ako ponestane vremena, režem ovim redom:
 - ML ostaje samo evaluacija u `docs/ML.md`;
